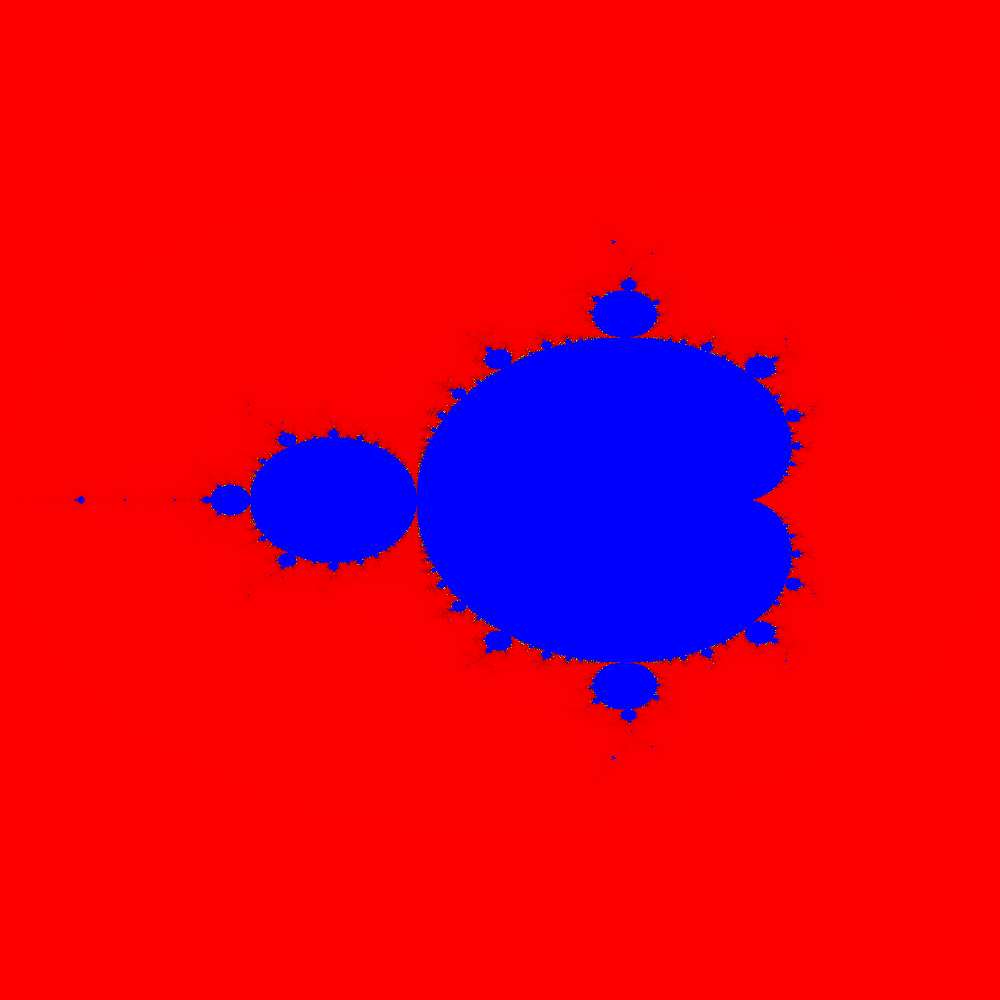
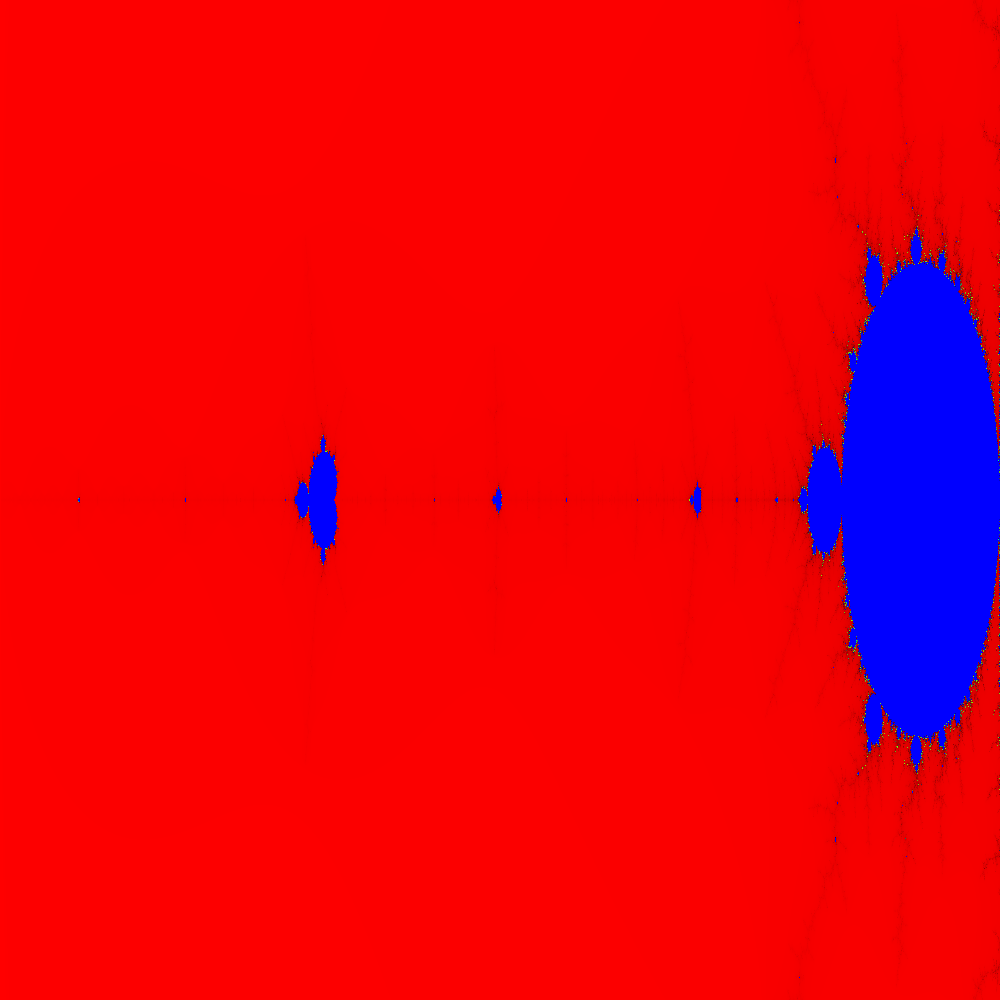
added in max iter to data transfer

diff --git a/redisothermain.py b/redisothermain.py
@@ -39,12 +39,10 @@ class Worker:
         results = []
         print("Doing job: {}".format(job['job_id']))
         for i in tqdm(job['jobs']):
-            results.append(find_iter(i['real'], i['imag'], MAX_ITER))
+            results.append(find_iter(i['real'], i['imag'], int(i['max_iter'])))
 
         resultsz = serializer({'result' : results,
                                'job_id' : job['job_id']})
-
-        print("returning results: {}".format(resultsz))
 
         self.redis_con.rpush(RESULT_Q_NAME, resultsz)
 class Client:
@@ -121,9 +119,9 @@ if __name__ == "__main__":
     if args.cli:
         c = Client(r)
         return_ids = []
-        count = 1000
-        job_size = (count * count) // 10
-        gener = gen_grid(count, (-2, 2), (1, -2))
+        count = 10000
+        job_size = 500
+        gener = gen_grid(count, (-2, .125), (-1.625, -.125))
         pixel_coord = (0, 0)
         keep_posing = True
         with tqdm(total=count*count) as pbar:
@@ -136,7 +134,7 @@ if __name__ == "__main__":
                     except StopIteration:
                         keep_posing = False
                         break
-                    jobs.append({'real' : tmp[0], 'imag' : tmp[1]})
+                    jobs.append({'real' : tmp[0], 'imag' : tmp[1], 'max_iter' : MAX_ITER})
                     if pixel_coord[1] > count:
                         pixel_coord = (pixel_coord[0] + 1, 0)
                     else:
@@ -168,7 +166,7 @@ if __name__ == "__main__":
                     finished_pool.append(current_results)
         
         height = 0
-        with tqdm(total=len(finished_pool)):
+        with tqdm(total=len(sorted_ids)):
             tmp = []
             for i in sorted_ids:
                 for j in finished_pool:
